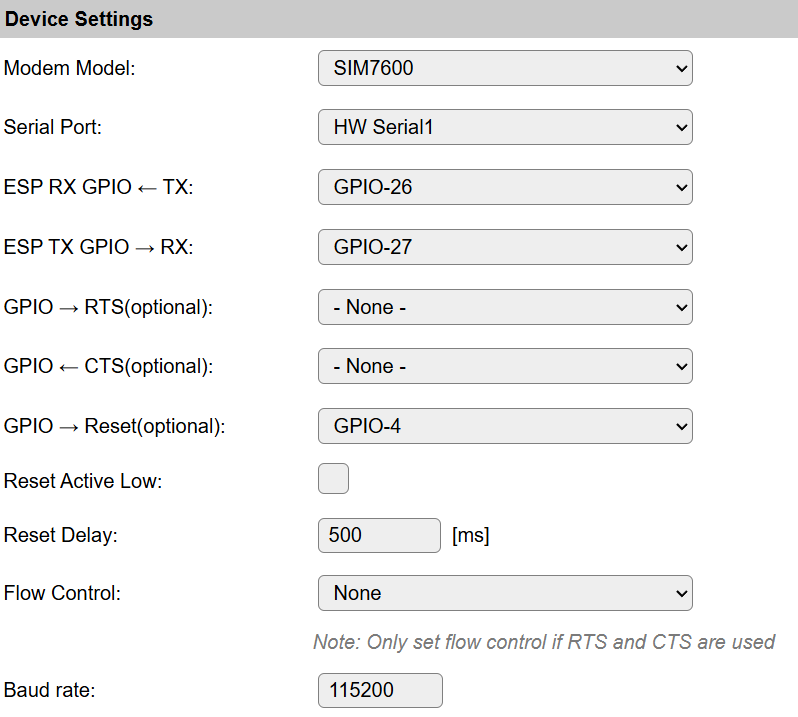
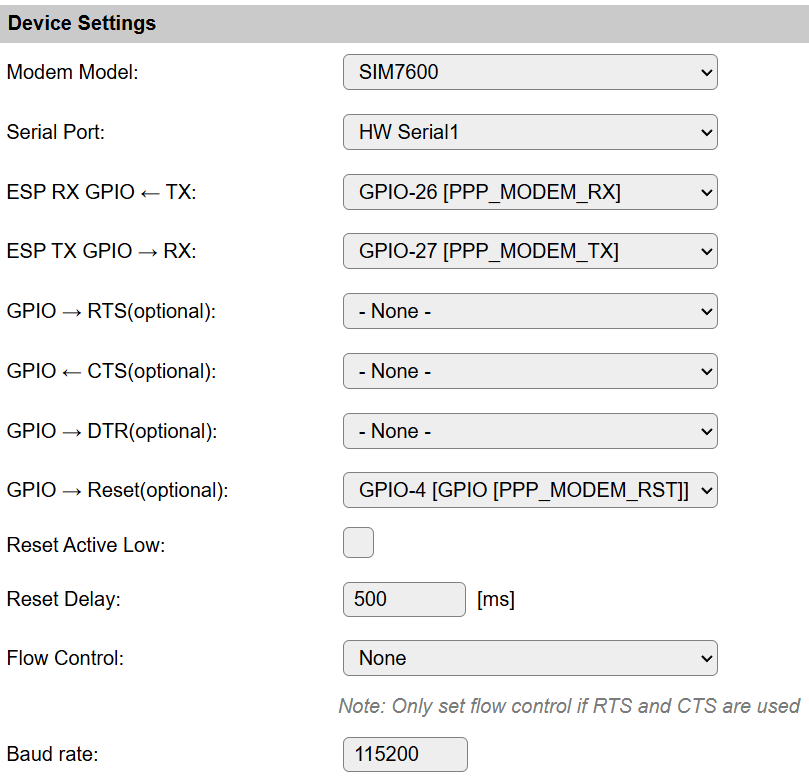
[PPP Docs] Add documentation on NW005 PPP Modem

diff --git a/docs/source/Network/NW005.rst b/docs/source/Network/NW005.rst
@@ -33,10 +33,87 @@ Configuration
 Device Settings
 ^^^^^^^^^^^^^^^
 
+.. image:: NW005_DeviceSettings.png
+
+DTR pin
+-------
+
+For SIMCOM A76xx modems, there is an emergency fallback option possible to regain access to the modem while the modem is in 'data' mode and not in 'console' mode.
+ESPEasy does send the required AT-command ``AT&D1`` right before starting the network connection to enable this fallback in the modem settings.
+
+These PPP modems do have a console/command mode and a data mode.
+When entering AT commands, the modem must be pulled out of the data mode. However when the connection between the ESP and the modem got interrupted while the modem is still in data mode, it is impossible to regain access to the modem unless it is reset or power cycled.
+This may occur when the ESP crashes or reboots without properly terminating the PPP network connection, or when the serial link between the ESP and the modem is not using flow control (which is strongly suggested to use!).
+
+Not all modem boards do have the DTR pin exposed. So make sure to either have the reset pin available, or as a last resort, have the option to power cycle the modem board.
+Power cycling should be considered as last resort to regain access to the modem, as it may take several minutes for a modem to get connected again after a power cycle.
+
 
 
 Connection Settings
 ^^^^^^^^^^^^^^^^^^^
+
+These settings are optional.
+
+.. note:: These specific settings are stored in the file ``devsecurity.dat`` as these are specific to this device.
+
+Access Point Name (APN)
+-----------------------
+
+The APN is like a default gateway for your device to connect to another network.
+
+Typically the default APN as stored in the SIM card, or sent by the provider when setting up the connection, is just fine.
+
+For some use cases, it may be required to set a specific APN, to override the pre-configured one stored in the SIM card.
+
+A provider may offer several APNs, for example to connect to a specific customer network or to handle the traffic differently.
+
+Whether or not this is even useful to change depends on the use case and the specific provider.
+
+
+SIM Card Pin
+------------
+
+A SIM card often has some 4-digit pin, which must be entered when powering up the device.
+If needed, the Pin number can be entered here.
+
+
+Modem State
+^^^^^^^^^^^
+
+.. image:: NW005_ModemState.png
+
+UE System Information
+^^^^^^^^^^^^^^^^^^^^^
+
+.. image:: NW005_UE_SystemInformation.png
+
+Useful AT commands
+^^^^^^^^^^^^^^^^^^
+
+The command ``ppp,write,<AT-command>`` can be used to interact directly with the modem.
+
+.. note:: The displayed output on the web interface often also includes the ``OK`` at the end.  This is not part of the reply, but was originally printed on a separate line. However the way how these outputs are shown on the "Command Output" window, the extra newlines have been stripped from the response.  The log on the serial port will output these on separate lines.
+
+* ``ppp,write,ATI`` Example output: ``+GCAP: +CGSM,+FCLASS,+DS``
+* ``ppp,write,AT+IPR=?`` Listing supported baud rates: ``+IPR: (300,600,1200,2400,4800,9600,19200,38400,57600,115200,230400,460800,921600,1842000,3686400)``
+* ``ppp,write,AT+CSPN?`` Show the SIM card carrier string: ``+CSPN: "Lebara",0``
+* ``ppp,write,AT+CCLK?`` Show local time as known by the modem: ``+CCLK: "70/01/01,00:53:53+00"``
+
+
+Example Devices
+^^^^^^^^^^^^^^^
+
+* `A7670E <https://nl.aliexpress.com/item/1005005220505235.html>`_ (DTR pin exposed, no RST pin)
+* `A7670G <https://nl.aliexpress.com/item/1005008748473438.html>`_ (DTR pin exposed, no RST pin)
+* `LilyGO T-PCIE V1.2 - AXP2101 - ESP32-WROVER - 16MB <https://www.tinytronics.nl/nl/development-boards/microcontroller-boards/met-wi-fi/lilygo-t-pcie-v1.2-axp2101-esp32-wrover-16mb>`_ with modem: `LilyGO TTGO T-PCIE A7670G  <https://www.tinytronics.nl/nl/communicatie-en-signalen/draadloos/telecom/modules/lilygo-ttgo-t-pcie-a7670g-uitbreidingsmodule>`_ 
+
+To use the last LilyGo T-PCIe v1.2 along with their A7670G modem combination as network interface #3, this config import can be used to get started:
+
+.. code-block::
+  
+  networkimportconfig,3,`{"nwpluginID":5,"enabled":"true","route_prio":200,"fallback":"false","sn_block":"true","start_delay":1000,"en_ipv6":"false","serPort":4,"RX":26,"TX":27,"RTS":-1,"CTS":-1,"rst":4,"rst_act_low":"false","rst_delay":500,"baudrate":115200,"flowctrl":0,"phytype":2,"DTR":-1}`
+
 
 
 Change log
